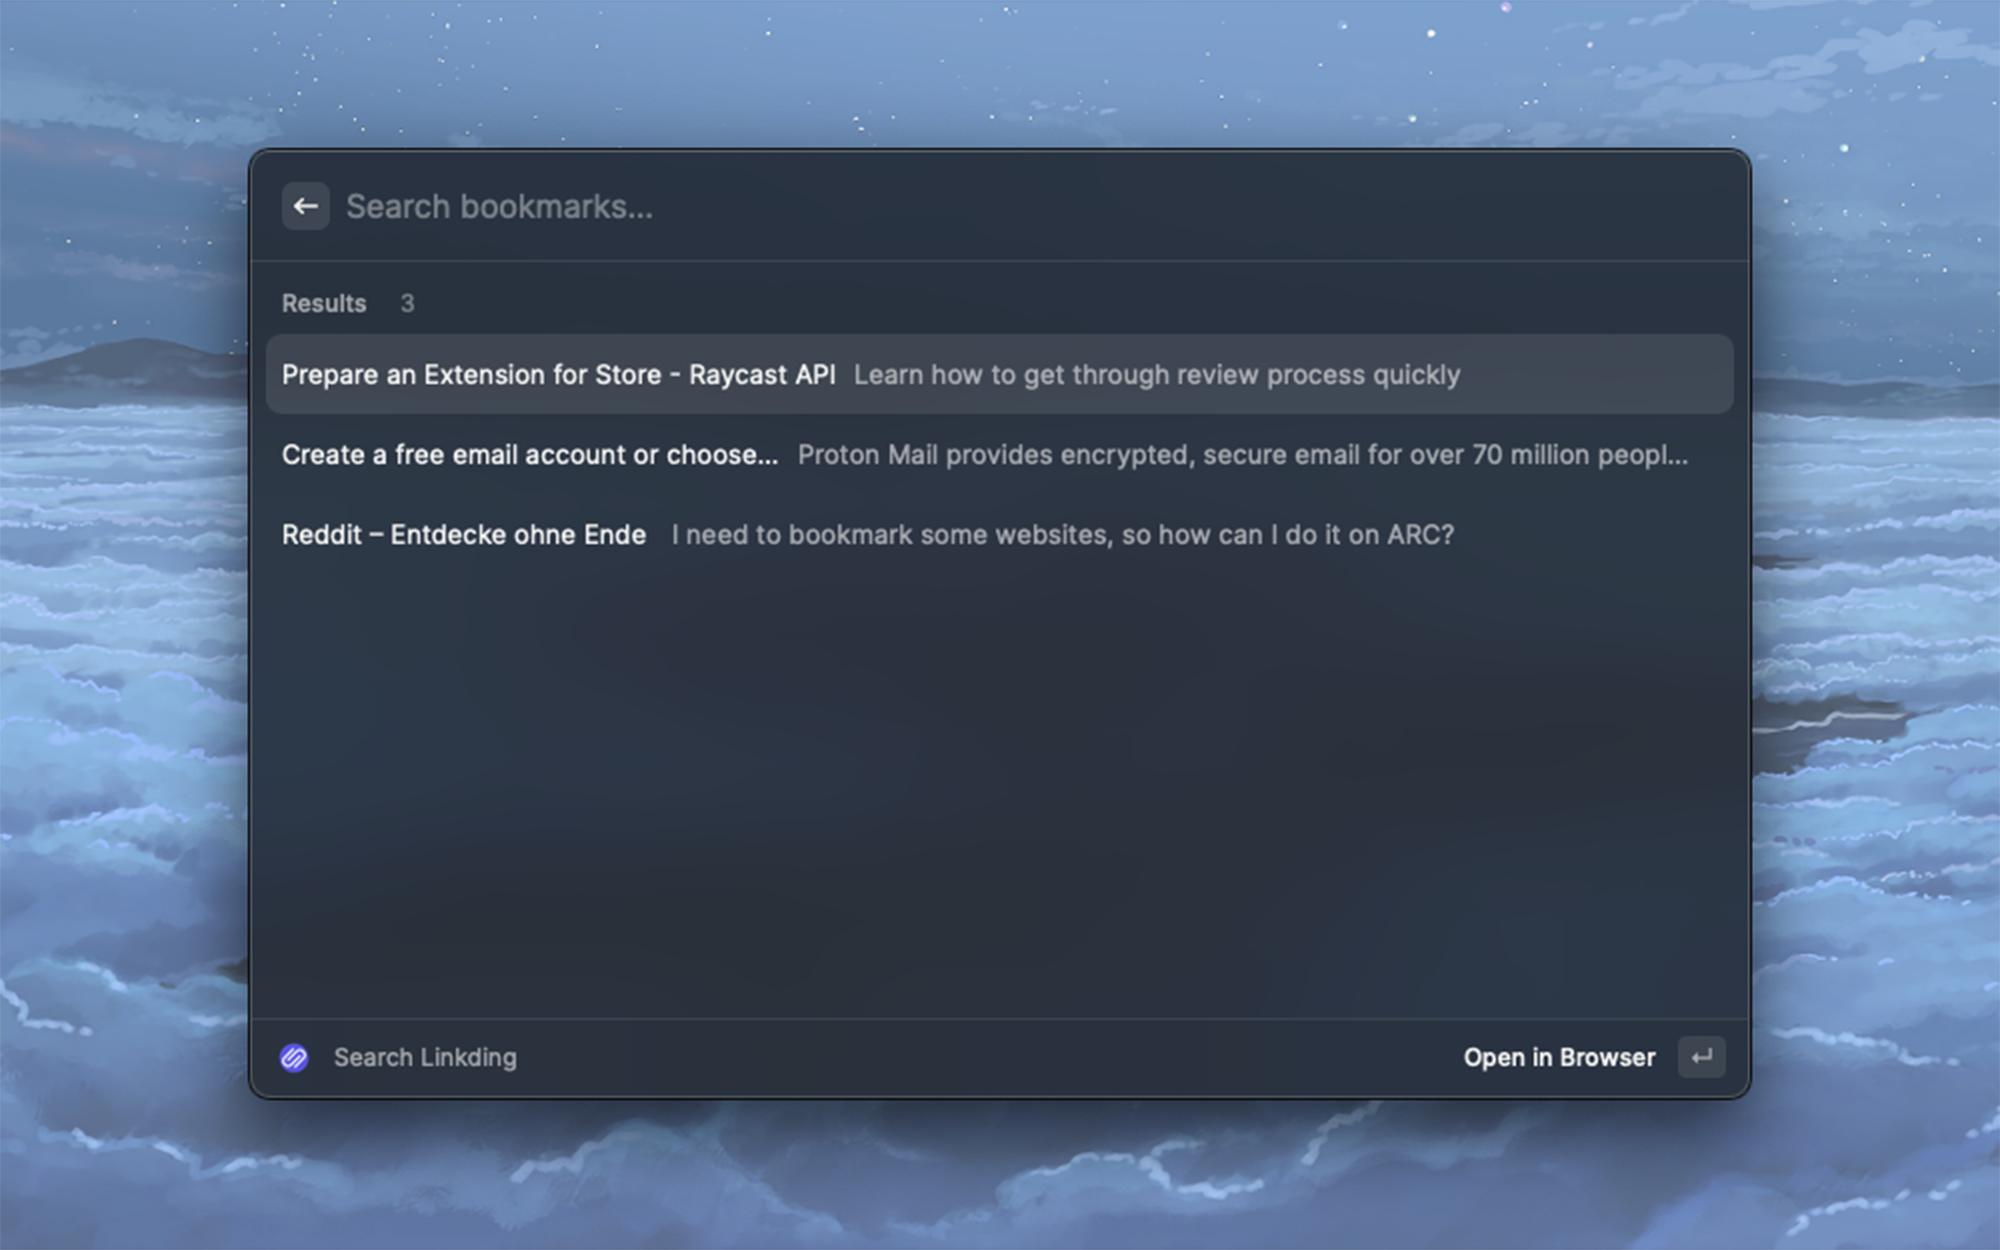
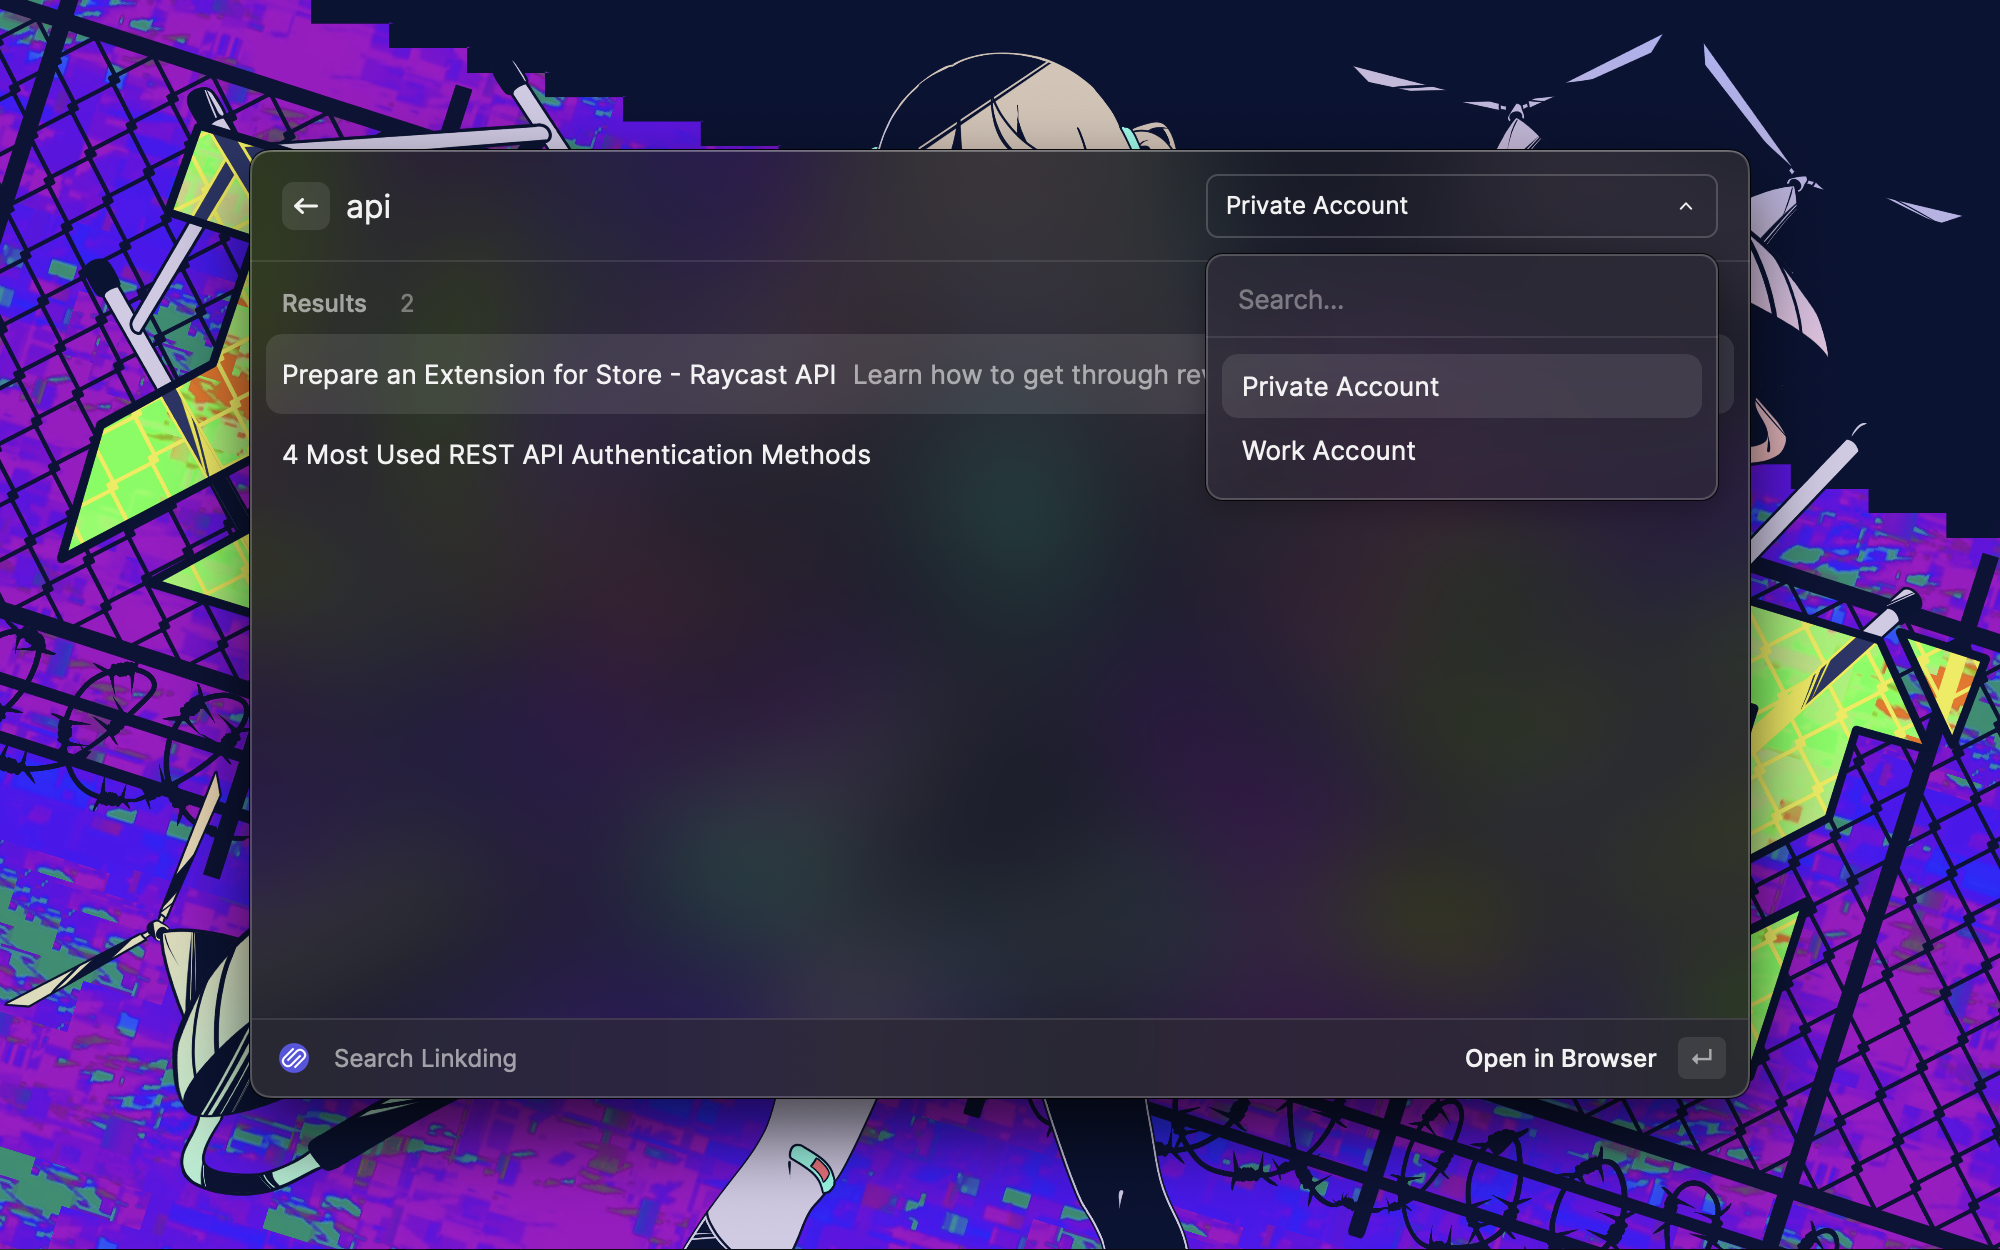
update screenshots and readme

diff --git a/README.md b/README.md
@@ -6,10 +6,12 @@ Uses Raycast to search through Linking Bookmarks.
 
 ![raycast-linkding-1.png](metadata/raycast-linkding-1.png)
 ![raycast-linkding-2.png](metadata/raycast-linkding-2.png)
+![raycast-linkding-3.png](metadata/raycast-linkding-3.png)
+![raycast-linkding-4.png](metadata/raycast-linkding-4.png)
 
 ## Features
 
-- Search through your Bookmarks.
+- Support Bookmark search through multiple Linkding Accounts and Servers
 - Open Bookmarks in the Browser
 
 ## Notice
@@ -18,7 +20,6 @@ The Linkding API Key and Server URL from your Linkding instance are needed to us
 
 ## Planned Features
 
-- Support search through multiple Linkding Accounts and Servers
 - Create, Update, Delete Bookmarks in extension
 
 ## Contributing
